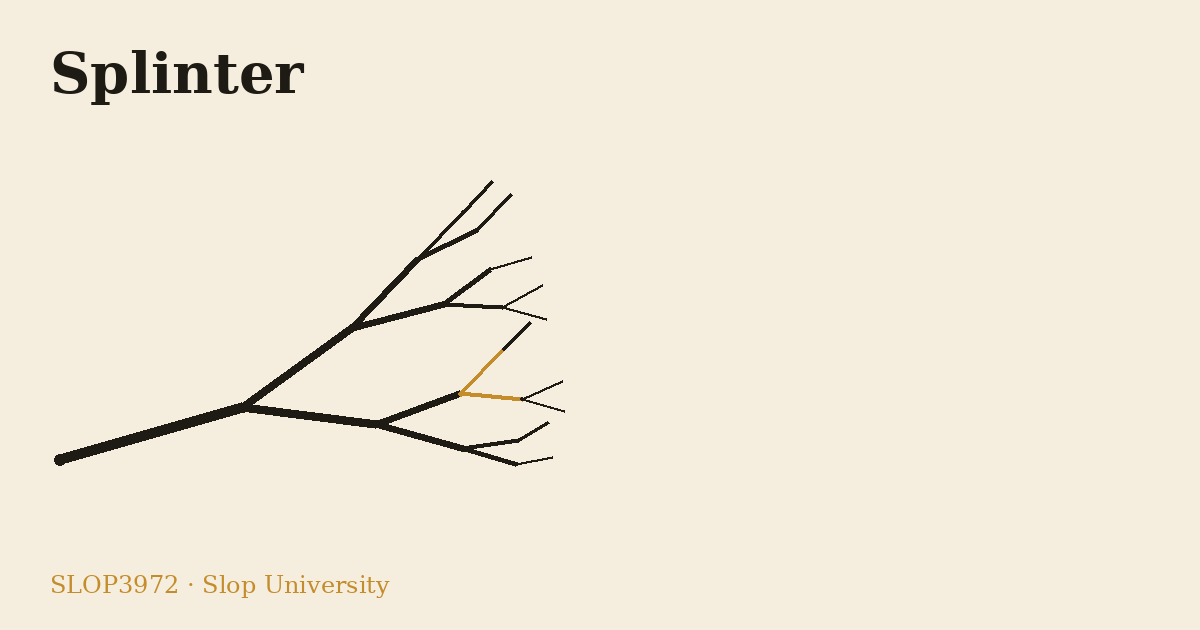
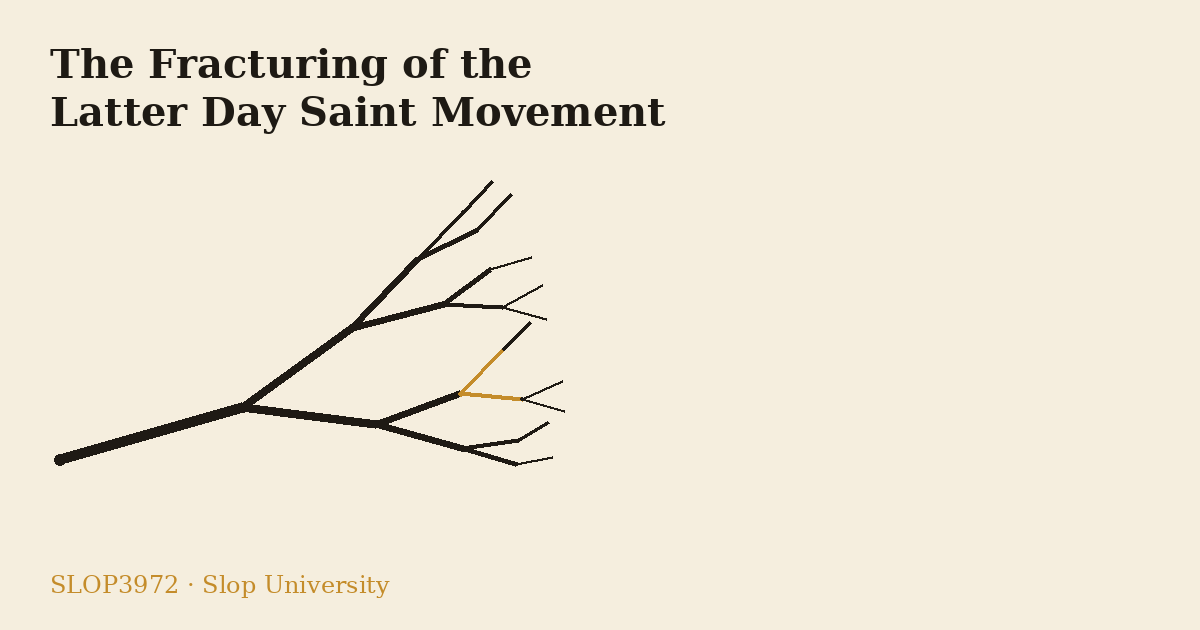
Drop "Splinter" as the course's brand name
The course title stands alone as "The Fracturing of the Latter Day
Saint Movement" rather than "Splinter: ..." — updates course-config.ts,
the week 1 deck title slide, the card image's title text, and the two
places (CLAUDE.md, PROCESS.md) that referred to the course by that name.
Session titles using "splinter(s)" as a common noun (weeks 8 and 11)
are unrelated and untouched.

Changed region(s): [[0.0308, 0.0603, 0.555, 0.2111]]

diff --git a/src/course-config.ts b/src/course-config.ts
@@ -45,7 +45,7 @@ export const slopCourseMetaSchema = z
 //
 export const courseMeta = slopCourseMetaSchema.parse({
   code: "SLOP3972",
-  title: "Splinter: The Fracturing of the Latter Day Saint Movement",
+  title: "The Fracturing of the Latter Day Saint Movement",
   session: "Semester 1",
   year: 2027,
   level: 3,

diff --git a/PROCESS.md b/PROCESS.md
@@ -12,7 +12,8 @@ cover every deliverable.
 
 ## What I built
 
-**Splinter** (`SLOP3972`) is a fictional third-year history course that takes
+**The Fracturing of the Latter Day Saint Movement** (`SLOP3972`) is a
+fictional third-year history course that takes
 the 1844 Latter Day Saint succession crisis — Joseph Smith killed with no
 named successor, and the dozen-plus competing churches that argument
 produced — as a single semester-long case study in how institutions actually

diff --git a/CLAUDE.md b/CLAUDE.md
@@ -2,7 +2,8 @@
 
 Rules for whichever agent is working in this repo, kept because each one
 traces back to something that actually went wrong or would have gone wrong
-unnoticed while building **Splinter** (`SLOP3972`).
+unnoticed while building `SLOP3972`, "The Fracturing of the Latter Day
+Saint Movement."
 
 ## Content order
 
